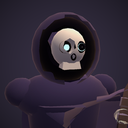
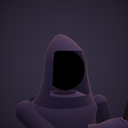
망령 사신 외형 다듬기: 얼굴 제거·검은 두건 속, 팔을 몸 밖으로, 두건·몸통 곡면화
Claude-Session: https://claude.ai/code/session_01JhNqGVazJG8bS97785qJEK

diff --git a/game/client/rigs/reaper.py b/game/client/rigs/reaper.py
@@ -28,23 +28,22 @@ _SCALE = _S(SC)
 
 WAIST_Y = 1.15                  # 떠 있는 허리 높이
 CHEST_UP = 0.42                 # 허리 -> 가슴
-SHOULDER = (0.36, 0.12)         # 가슴 기준 어깨 (좌우, 높이)
+SHOULDER = (0.39, 0.07)         # 가슴 기준 어깨 (좌우, 높이)
 HEAD_AT = (0.0, 0.46, 0.04)     # 가슴 기준 머리
-UPPER, FORE = 0.42, 0.44        # 위팔 / 아래팔 길이
+UPPER, FORE = 0.44, 0.46        # 위팔 / 아래팔 길이
 
 # 낫 (낫 좌표: 아래쪽 손잡이가 원점, +Y 가 자루 끝, +Z 가 날이 뻗는 쪽)
 BUTT, TOP = -0.75, 1.65
 BLADE_LEN = 1.3
-GRIP2 = 0.55                    # 왼손이 쥐는 자리 (오른손은 원점)
+GRIP2 = 0.5                     # 왼손이 쥐는 자리 (오른손은 원점). 팔이 닿지 않으면 왼손은 놓는다
 
 CLOTH_TOP = (0.21, 0.18, 0.28)
 CLOTH_HEM = (0.36, 0.28, 0.5)
-INNER = (0.03, 0.02, 0.05)
 BONE = (0.9, 0.87, 0.78)
 SHAFT = (0.24, 0.17, 0.15)
 METAL = (0.55, 0.5, 0.62)
 BLADE = (0.8, 0.84, 0.92)
-SOUL = (0.55, 0.95, 1.0)        # 눈·날의 영혼 빛
+SOUL = (0.55, 0.95, 1.0)        # 날끝의 영혼 빛
 
 H = 1 / 50                      # 천 시뮬레이션 한 걸음 (초)
 MAX_STEPS = 5
@@ -79,7 +78,7 @@ def _mix(p, q, k):
     return _pose(_lerp(p[0], q[0], k), _lerp(p[1], q[1], k), _lerp(p[2], q[2], k))
 
 
-def sweep_pose(theta, phi, rad=0.28, y=1.35):
+def sweep_pose(theta, phi, rad=0.46, y=1.38):
     """몸 둘레로 수평에 가깝게 휘두르는 자세. theta: 자루가 뻗는 방향(0 = 앞, + = 오른쪽), phi: 들린 각도.
     날은 theta 가 줄어드는 쪽(오른쪽 -> 왼쪽으로 휘두를 때 나아가는 쪽)을 향한다."""
     st, ct = math.sin(theta), math.cos(theta)
@@ -90,11 +89,11 @@ def sweep_pose(theta, phi, rad=0.28, y=1.35):
 def chop_pose(alpha, y=1.55):
     """몸 앞 세로로 내려치는 자세. alpha: 자루가 앞 수평에서 아래로 기운 각도 (음수면 위로, -pi/2 면 수직)."""
     sa, ca = math.sin(alpha), math.cos(alpha)
-    return _pose((0.2, y, 0.18), (0.22, -sa, ca), (0.0, -ca, -sa))
+    return _pose((0.24, y, 0.36), (0.22, -sa, ca), (0.0, -ca, -sa))
 
 
-IDLE_POSE = _pose((0.26, 1.02, 0.36), (0.12, 1.0, 0.08), (-0.35, 0.0, 1.0))
-MOVE_POSE = _pose((0.3, 1.18, 0.1), (0.25, 0.5, -0.85), (-0.2, 0.9, 0.4))
+IDLE_POSE = _pose((0.2, 1.02, 0.5), (0.25, 1.0, 0.05), (-0.35, 0.0, 1.0))
+MOVE_POSE = _pose((0.42, 1.12, 0.2), (0.15, 0.55, -0.82), (-0.2, 0.9, 0.4))
 RECALL_POSE = _pose((0.32, 0.95, 0.32), (0.0, 1.0, 0.0), (0.0, 0.0, 1.0))
 WIN_POSE = _pose((0.28, 1.72, 0.25), (0.15, 1.0, 0.2), (-0.3, 0.0, 1.0))
 STUN_POSE = _pose((0.2, 0.85, 0.4), (0.3, 0.55, 0.75), (-1.0, 0.0, 0.2))
@@ -102,33 +101,47 @@ DEAD_POSE = _pose((0.5, 0.06, -0.9), (-0.2, 0.0, 1.0), (1.0, 0.0, 0.0))
 
 
 # ------------------------------------------------------------------ 메시
-def _sleeve(r0, r1, color, seg=10):
+def _sleeve(r0, r1, color, seg=14):
     """반지름 1 기준 원통 (아래 r0 -> 위 r1, 높이 1, +Y). 그릴 때 두께·길이로 늘린다."""
     b = MeshBuilder()
     b.cylinder((0, 0, 0), r0, 1.0, color, seg, radius_top=r1)
     return b
 
 
-def _shell(radius, scale, color, cut_z, seg=18, rings=12):
-    """앞(+Z)이 뚫린 구 껍질 (두건). 법선 z 가 cut_z 보다 큰 쪽 삼각형을 뺀다."""
+def _loft(rings, color, seg=22, cut=None):
+    """아래에서 위로 쌓은 타원 단면들을 매끈하게 이은 면. rings: (높이, 좌우 반지름, 앞뒤 반지름, 앞뒤 치우침[, 앞쪽만 더 내밈]).
+    단면 각도 0 이 앞(+Z). cut(높이, 각도) 가 참인 칸은 비운다 (두건의 얼굴 구멍)."""
+    P = np.zeros((len(rings), seg + 1, 3))
+    for j, rg in enumerate(rings):
+        y, rx, rz, cz = rg[:4]
+        fr = rg[4] if len(rg) > 4 else 0.0
+        for i in range(seg + 1):
+            a = 2 * PI * i / seg
+            c = math.cos(a)
+            P[j, i] = (math.sin(a) * rx, y, c * rz + cz + fr * max(0.0, c) ** 2)
+    du = np.roll(P, -1, axis=1) - np.roll(P, 1, axis=1)
+    du[:, 0] = du[:, -1] = P[:, 1] - P[:, -2]
+    dv = np.zeros_like(P)
+    dv[1:-1] = P[2:] - P[:-2]
+    dv[0], dv[-1] = P[1] - P[0], P[-1] - P[-2]
+    N = np.cross(du, dv)
+    N /= np.maximum(np.linalg.norm(N, axis=2, keepdims=True), 1e-9)
     b = MeshBuilder()
-    sx, sy, sz = scale
-
-    def pt(i, j):
-        th = PI * j / rings
-        ph = 2 * PI * i / seg
-        n = (math.sin(th) * math.sin(ph), math.cos(th), math.sin(th) * math.cos(ph))
-        return (n[0] * radius * sx, n[1] * radius * sy, n[2] * radius * sz), n
-
-    for j in range(rings):
+    for j in range(len(rings) - 1):
         for i in range(seg):
-            (a, na), (c, nc) = pt(i, j), pt(i + 1, j)
-            (d, nd), (e, ne) = pt(i + 1, j + 1), pt(i, j + 1)
-            if (na[2] + nc[2] + nd[2] + ne[2]) / 4 > cut_z:
+            if cut and cut((rings[j][0] + rings[j + 1][0]) / 2, 2 * PI * (i + 0.5) / seg):
                 continue
-            b.tri(a, e, d, color, na, ne, nd)
-            b.tri(a, d, c, color, na, nd, nc)
+            q = [(j, i), (j, i + 1), (j + 1, i + 1), (j + 1, i)]
+            pts = [tuple(P[a, c]) for a, c in q]
+            ns = [tuple(N[a, c]) for a, c in q]
+            b.tri(pts[0], pts[1], pts[2], color, ns[0], ns[1], ns[2])
+            b.tri(pts[0], pts[2], pts[3], color, ns[0], ns[2], ns[3])
     return b
+
+
+def _face_hole(y, a):
+    a = (a + PI) % (2 * PI) - PI
+    return abs(a) < math.radians(52) and -0.17 < y < 0.19
 
 
 def _blade_curve(n=16):
@@ -185,33 +198,24 @@ def build_scythe_projectile():
 class ReaperAssets:
     def __init__(self, renderer):
         mk = lambda b: Mesh.from_builder(renderer, b)
-        torso, chest, hood, inner, skull, sockets, eyes = (MeshBuilder() for _ in range(7))
-        # 몸통 (허리 좌표): 허리에서 가슴까지 넓어지는 원통
-        torso.cylinder((0, -0.12, 0), 0.25, 0.6, CLOTH_TOP, 14, radius_top=0.33)
-        # 가슴 (가슴 좌표): 어깨 덩어리 + 목깃
-        _xf(chest, _sphere(1.0, CLOTH_TOP, (0.43, 0.2, 0.28), 16, 10), _T(0, 0.07, -0.02))
-        chest.cylinder((0, 0.12, -0.01), 0.2, 0.14, INNER, 12, radius_top=0.17)
+        # 아랫몸 (허리 좌표): 로브 윗단 속으로 이어지는 허리
+        torso = _loft([(-0.15, 0.25, 0.21, 0.0), (0.1, 0.27, 0.215, 0.0), (0.32, 0.3, 0.225, 0.0)], CLOTH_TOP)
+        # 윗몸 (가슴 좌표): 가슴 -> 둥글게 처진 어깨 -> 목 (어깨 끝에서 팔이 나온다)
+        chest = _loft([(-0.34, 0.29, 0.22, 0.0), (-0.14, 0.32, 0.235, 0.0), (0.0, 0.35, 0.24, -0.01),
+                       (0.07, 0.38, 0.23, -0.02), (0.13, 0.33, 0.21, -0.02), (0.18, 0.23, 0.17, -0.01),
+                       (0.23, 0.13, 0.12, 0.0)], CLOTH_TOP)
         for sx in (-1, 1):
-            _xf(chest, _sphere(0.13, CLOTH_TOP, (1, 0.9, 1), 10, 8), _T(sx * SHOULDER[0], SHOULDER[1], 0))
-        # 두건 (머리 좌표): 앞이 뚫린 껍질 + 어두운 안쪽 + 뒤로 처진 뾰족한 끝
-        hood.verts += _shell(0.3, (0.92, 1.0, 1.02), CLOTH_TOP, 0.52).verts
-        tip = MeshBuilder()
-        tip.cylinder((0, 0, 0), 0.13, 0.32, CLOTH_TOP, 10, radius_top=0.0)
-        _xf(hood, tip, _T(0, 0.12, -0.18) @ _Rx(-2.2))
-        inner.verts += _shell(0.27, (0.9, 0.98, 1.0), INNER, 0.8).verts
-        # 해골
-        _xf(skull, _sphere(0.15, BONE, (0.9, 1.0, 1.05), 14, 10), _T(0, 0.02, 0.07))
-        jaw = MeshBuilder()
-        jaw.box((0, -0.115, 0.12), (0.15, 0.06, 0.11), BONE, taper=0.85)
-        skull.verts += jaw.verts
-        for sx in (-1, 1):
-            _xf(sockets, _sphere(0.046, INNER, seg=8, rings=6), _T(sx * 0.056, 0.025, 0.19))
-            _xf(eyes, _sphere(0.03, (1, 1, 1), seg=8, rings=6), _T(sx * 0.056, 0.025, 0.222))
-        _xf(sockets, _sphere(0.022, INNER, (1.0, 1.3, 1.0), 6, 5), _T(0, -0.045, 0.21))      # 콧구멍
+            _xf(chest, _sphere(0.1, CLOTH_TOP, (1.0, 0.95, 1.0), 12, 8), _T(sx * SHOULDER[0], SHOULDER[1], 0))
+        # 두건 (머리 좌표): 어깨에 걸친 자락에서 뒤로 뾰족하게 접힌 꼭대기까지, 앞은 얼굴 자리가 뚫렸고 안은 새까맣다
+        hood = _loft([(-0.31, 0.31, 0.27, -0.03), (-0.2, 0.25, 0.25, 0.0, 0.03), (-0.06, 0.215, 0.235, 0.0, 0.05),
+                      (0.08, 0.205, 0.23, -0.01, 0.06), (0.19, 0.175, 0.2, -0.04, 0.04), (0.27, 0.12, 0.15, -0.09),
+                      (0.33, 0.06, 0.08, -0.15), (0.36, 0.0, 0.0, -0.21)], CLOTH_TOP, cut=_face_hole)
+        inner = MeshBuilder()
+        inner.sphere((0, 0.0, 0.0), 0.2, (0, 0, 0), 14, 10, (0.95, 1.0, 1.0))
         self.torso, self.chest, self.hood, self.inner = mk(torso), mk(chest), mk(hood), mk(inner)
-        self.skull, self.sockets, self.eyes = mk(skull), mk(sockets), mk(eyes)
-        self.upper = mk(_sleeve(1.0, 1.1, CLOTH_TOP))
-        self.fore = mk(_sleeve(1.05, 1.6, CLOTH_TOP))
+        self.upper = mk(_sleeve(1.0, 0.85, CLOTH_TOP))
+        self.fore = mk(_sleeve(0.8, 1.55, CLOTH_TOP))
+        self.elbow = mk(_sphere(1.0, CLOTH_TOP, seg=10, rings=7))
         hand = MeshBuilder()
         hand.sphere((0, 0, 0), 0.065, BONE, 10, 7, (1.0, 0.8, 1.2))
         for k in range(3):                                   # 손가락 마디
@@ -466,7 +470,6 @@ class ReaperAnim:
         self.was_dead = False
         self.dead_clock = 0.0
         self.won = False
-        self.rage = False
         self.cloth = Cloth(assets.cloth_spec) if assets is not None else None
         self.mats = {}
         self.arms = []
@@ -631,8 +634,6 @@ class ReaperAnim:
             self._frames()
             if self.cloth:
                 self.cloth.reset(self._cloth_mats())
-        mh = d.get("mhp") or 0
-        self.rage = bool(mh) and d.get("hp", mh) / mh < 0.35
         if d.get("a", 0) == 2 and self.t - self.last_attack > 0.55 and not self.act:
             self.attack()
         act = self._action()
@@ -711,16 +712,23 @@ class ReaperAnim:
         self.mats = {"root": root, "body": M_body, "chest": M_chest, "head": M_head, "scythe": M_scy, "sink": sink}
         # 팔: 어깨에서 낫의 손잡이(또는 빈손 자리)로 2본 IK
         holding = self.t >= self.away_until
+        shoulders = [(M_chest @ np.array([side * SHOULDER[0], SHOULDER[1], 0.0, 1.0]))[:3] for side in (1, -1)]
+        sway = 0.04 * math.sin(self.t * 2.2)
+        free_l = (M_hold @ np.array([-0.5, 1.12 + sway, 0.3, 1.0]))[:3]          # 빈 왼손: 몸 옆으로 살짝 띄워 늘어뜨린다
         if holding:
             hands = [(M_scy @ np.array([0.0, 0.0, 0.0, 1.0]))[:3], (M_scy @ np.array([0.0, GRIP2, 0.0, 1.0]))[:3]]
+            # 크게 휘두르느라 왼팔이 자루에 닿지 않으면 왼손은 놓고 몸 옆으로 (늘어나거나 몸을 뚫지 않게)
+            far = float(np.linalg.norm(hands[1] - shoulders[1])) - (UPPER + FORE) * 0.97
+            w = _smooth(1.0 - far / 0.12)
+            self.two = w if not hasattr(self, "two") else self.two + (w - self.two) * 0.35
+            hands[1] = free_l + (hands[1] - free_l) * self.two
         else:
             reach = 0.4 if (self.act and self.act[0] == "W") else 0.0
-            hands = [(M_hold @ np.array([0.32, 1.25 + reach * 0.4, 0.42 + reach, 1.0]))[:3],
-                     (M_hold @ np.array([-0.3, 1.2 + reach * 0.3, 0.38 + reach * 0.8, 1.0]))[:3]]
+            hands = [(M_hold @ np.array([0.45, 1.25 + reach * 0.4, 0.45 + reach, 1.0]))[:3],
+                     (M_hold @ np.array([-0.45, 1.2 + reach * 0.3, 0.42 + reach * 0.8, 1.0]))[:3]]
         self.arms = []
-        for side, hand in zip((1, -1), hands):
-            sh = (M_chest @ np.array([side * SHOULDER[0], SHOULDER[1], 0.0, 1.0]))[:3]
-            pole = (root[:3, :3] @ np.array([side * 0.8, -0.6, -0.5]))
+        for side, sh, hand in zip((1, -1), shoulders, hands):
+            pole = (root[:3, :3] @ np.array([side * 1.0, -0.45, -0.35]))      # 팔꿈치는 바깥 뒤로
             elbow, end = _two_bone(sh, hand, pole)
             self.arms.append((sh, elbow, hand))
 
@@ -769,15 +777,12 @@ class ReaperAnim:
             r.draw(a.chest, _SCALE @ m["chest"] @ shrink, tint=col, emissive=e)
             Mh = _SCALE @ m["head"] @ shrink
             r.draw(a.hood, Mh, tint=col, emissive=e)
-            r.draw(a.inner, Mh, tint=col)
-            r.draw(a.skull, Mh, tint=col, emissive=e)
-            r.draw(a.sockets, Mh, tint=col)
-            ec = self._eye_color()
-            r.draw(a.eyes, Mh, tint=(ec[0], ec[1], ec[2], alpha), unlit=1.0)
+            r.draw(a.inner, Mh, tint=(0, 0, 0, alpha), unlit=1.0)
             for sh, el, hd in self.arms:
                 c0 = m["body"][:3, 3]
                 sh_, el_, hd_ = (c0 + (p - c0) * sink for p in (sh, el, hd))
                 r.draw(a.upper, _SCALE @ _seg(sh_, el_, 0.1 * sink), tint=col, emissive=e)
+                r.draw(a.elbow, _SCALE @ _T(*el_) @ _S(0.088 * sink), tint=col, emissive=e)
                 r.draw(a.fore, _SCALE @ _seg(el_, hd_, 0.1 * sink), tint=col, emissive=e)
                 r.draw(a.hand, _SCALE @ _T(*hd_) @ _S(sink), tint=col, emissive=e)
         prog["u_dbl"].value = False
@@ -785,19 +790,15 @@ class ReaperAnim:
             M = _SCALE @ m["scythe"]
             r.draw(a.shaft, M, tint=col, emissive=e)
             r.draw(a.blade, M, tint=col, emissive=(e[0] + 0.05, e[1] + 0.06, e[2] + 0.1))
-            ec = self._eye_color(edge=True)
+            ec = self._edge_color()
             r.draw(a.edge, M, tint=(ec[0], ec[1], ec[2], alpha), unlit=1.0)
 
-    def _eye_color(self, edge=False):
-        t = self.t
+    def _edge_color(self):
+        """날끝 빛: 천천히 숨 쉬듯 밝아졌다 어두워지고, 죽으면 꺼진다."""
         if self.was_dead:
             k = max(0.0, 1.0 - self.dead_clock / 0.6)
         else:
-            k = 1.15 + 0.35 * math.sin(t * (11 if self.rage else 3.0))
-        if edge:
-            k *= 0.8 + 0.2 * math.sin(t * 5.0 + 1.0)
-        if self.rage and not edge:
-            return (1.0 * k, 0.3 * k, 0.35 * k)
+            k = (1.15 + 0.35 * math.sin(self.t * 3.0)) * (0.8 + 0.2 * math.sin(self.t * 5.0 + 1.0))
         return (SOUL[0] * k, SOUL[1] * k, SOUL[2] * k)
 
 

diff --git a/tools/build_portraits.py b/tools/build_portraits.py
@@ -24,7 +24,7 @@ SIZE = 128
 FRAMING = {"spider": {"ty": 0.68, "tz": 0.3, "dist": 2.3, "pitch": 14},      # 절차적 리그(거미): 얼굴이 카메라를 보게
            "serpent": {"ty": 1.85, "dist": 4.2, "pitch": 8, "yaw": 25},      # 절차적 리그(이무기): ㄴ자로 세운 몸과 머리를 비스듬히
            "dragon": {"ty": 1.9, "tz": 2.5, "tx": 0.45, "dist": 2.2, "pitch": 4, "yaw": 18},   # 절차적 리그(용): 앞으로 내민 머리와 가슴
-           "reaper": {"ty": 1.48, "dist": 1.2, "pitch": 6, "yaw": -16}}       # 절차적 리그(사신): 두건 속 해골 얼굴
+           "reaper": {"ty": 1.95, "dist": 1.7, "pitch": 6, "yaw": -16}}       # 절차적 리그(사신): 검은 두건
 DEFAULT = {"ty": 1.3, "dist": 2.75, "rot": 0.0, "tx": 0.0, "tz": 0.0, "pitch": 4, "yaw": 0.0}
 
 
